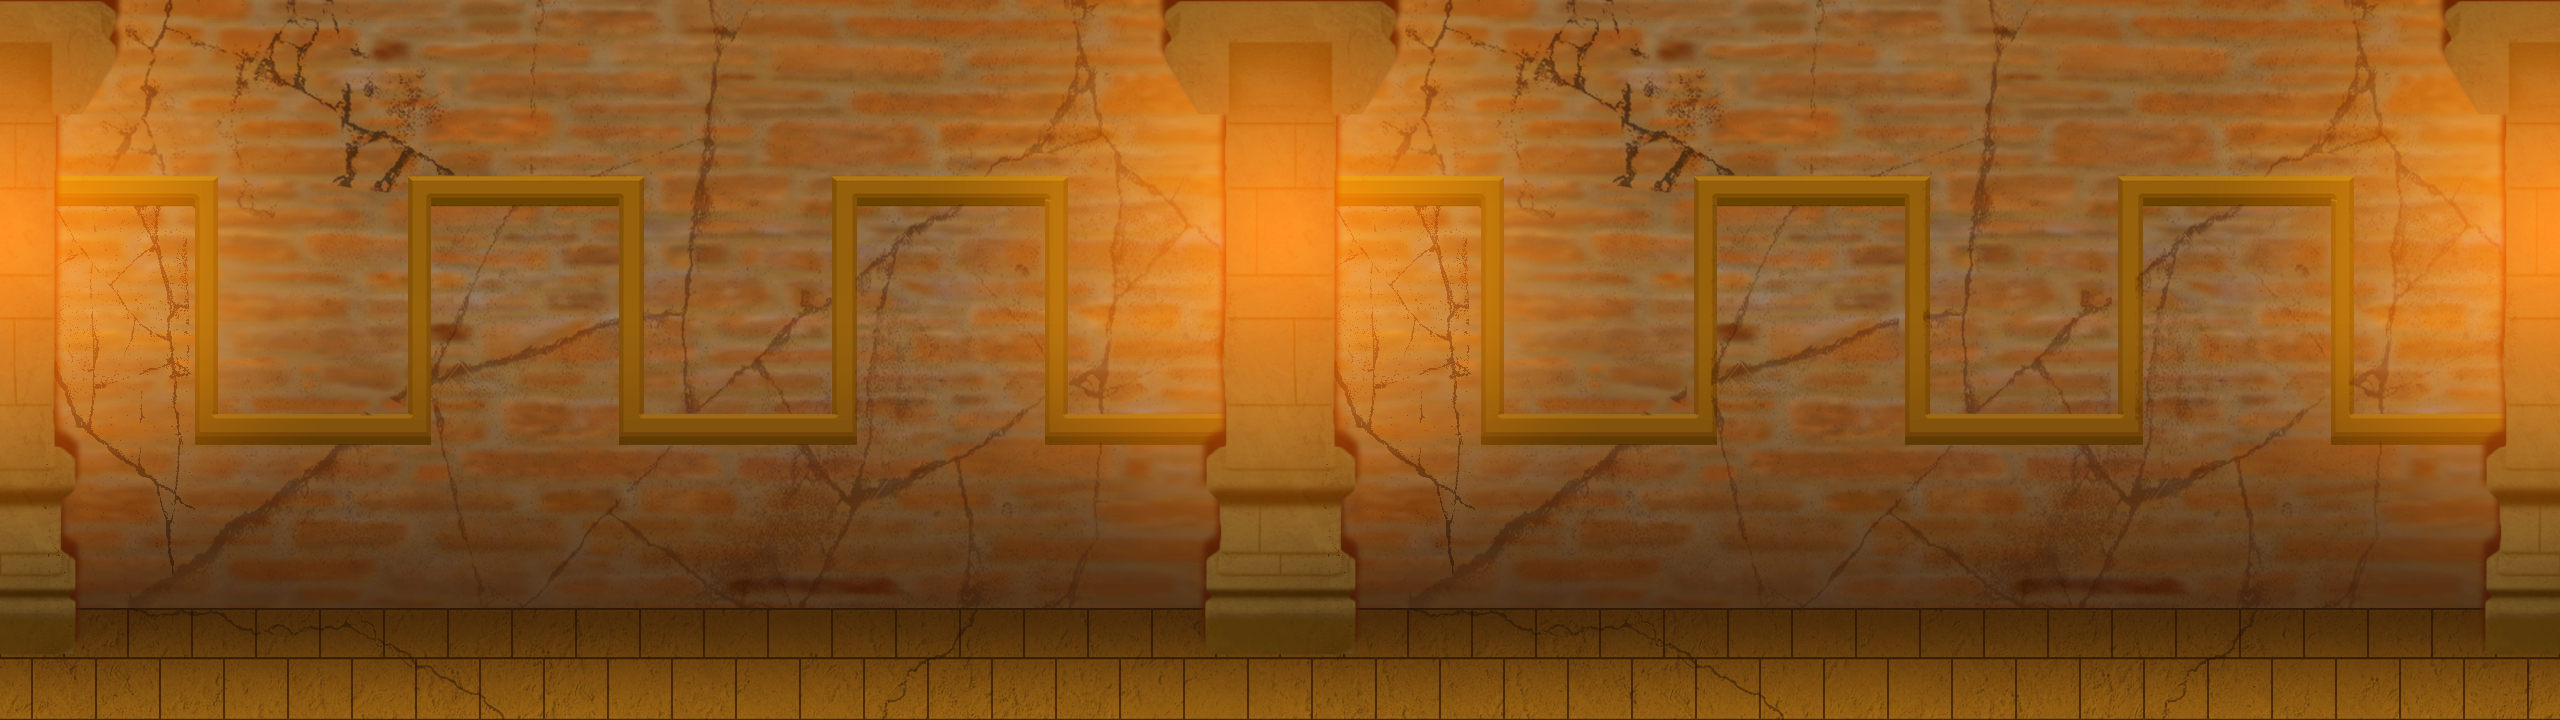
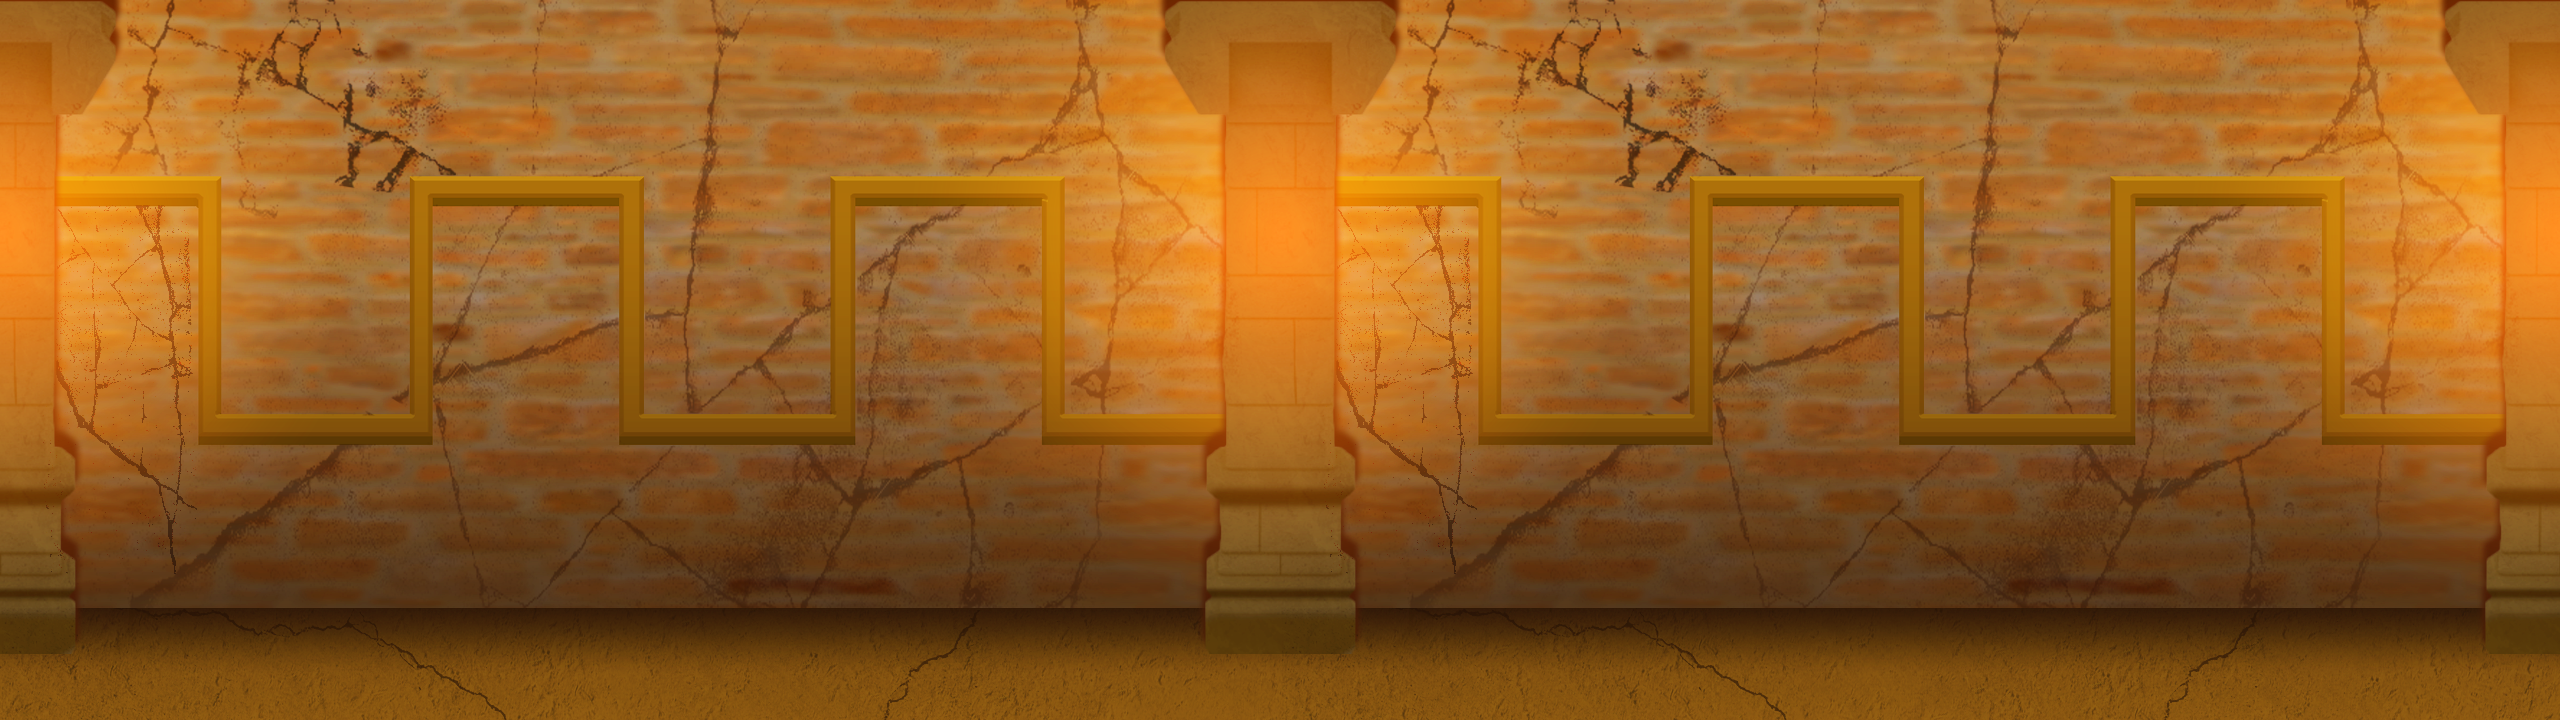
[メインシーン]穴に落ちた時のプレイヤーの挙動を変更、対応キーを追加[素材]背景、落とし穴の画像更新

diff --git a/DirectX12/DirectX12 Game Solution/DirectX12 MainProject/ClearScene.cpp b/DirectX12/DirectX12 Game Solution/DirectX12 MainProject/ClearScene.cpp
@@ -136,11 +136,6 @@ void ClearScene::Render()
             pointerSprite.Get(),
             pointerPosition);
     }
-    else
-    {
-
-    }
-
 
     DX9::SpriteBatch->End();
     DXTK->Direct3D9->EndScene();
@@ -166,42 +161,26 @@ void ClearScene::Render()
 }
 
 NextScene ClearScene::ClearSceneUpdate(const float deltaTime) {
-    if (clearSceneChangeState < RETURN_SCENE) {
-        clearSceneChangeState = RETURN_SCENE;
-    }
-    if (clearSceneChangeState > TITLE_SCENE) {
-        clearSceneChangeState = TITLE_SCENE;
-    }
-
-    //if (clearSceneChangeState == NEXT_STAGE) {
-    //    pointerPosition.y = POINTER_NEXT_POSITION_Y;
-    //    if (seCount >= SCENE_CHANGE_COUNT) {
-    //        return NextScene::MainScene2;
-    //    }
-    //    if (DXTK->KeyEvent->pressed.Enter ||
-    //        DXTK->GamePadEvent[0].a == GamePad::ButtonStateTracker::PRESSED) {
-    //        seDecision->Play();
-    //        sePlayFlagNext = true;
-    //    }
-    //}
-     if (clearSceneChangeState == RETURN_SCENE) {
+    if (clearSceneChangeState == RETURN_SCENE) {
         pointerPosition.y = POINTER_RETURN_POSITION_Y;
         if (seCount >= SCENE_CHANGE_COUNT) {
             return NextScene::MainScene;
         }
         if (DXTK->KeyEvent->pressed.Enter ||
-            DXTK->GamePadEvent[0].a == GamePad::ButtonStateTracker::PRESSED) {
+            DXTK->GamePadEvent[0].a     == GamePad::ButtonStateTracker::PRESSED ||
+            DXTK->GamePadEvent[0].start == GamePad::ButtonStateTracker::PRESSED) {
             seDecision->Play();
             sePlayFlagReturn = true;
         }
     }
-     if (clearSceneChangeState == TITLE_SCENE) {
+    if (clearSceneChangeState == TITLE_SCENE) {
         pointerPosition.y = POINTER_TITLE_POSITION_Y;
         if (seCount >= SCENE_CHANGE_COUNT) {
             return NextScene::TitleScene;
         }
         if (DXTK->KeyEvent->pressed.Enter ||
-            DXTK->GamePadEvent[0].a == GamePad::ButtonStateTracker::PRESSED) {
+            DXTK->GamePadEvent[0].a     == GamePad::ButtonStateTracker::PRESSED ||
+            DXTK->GamePadEvent[0].start == GamePad::ButtonStateTracker::PRESSED) {
             seDecision->Play();
             sePlayFlagTitle = true;
         }
@@ -219,16 +198,26 @@ NextScene ClearScene::ClearSceneUpdate(const float deltaTime) {
 void ClearScene::ClearPointerUpdate(const float deltaTime) {
     if (sePlayFlagNext == false && sePlayFlagReturn == false && sePlayFlagTitle == false) {
         if (DXTK->KeyEvent->pressed.Down ||
-            DXTK->GamePadEvent[0].leftStickDown == GamePad::ButtonStateTracker::PRESSED) {
+            DXTK->KeyEvent->pressed.S    ||
+            DXTK->GamePadEvent[0].leftStickDown == GamePad::ButtonStateTracker::PRESSED
+            ) {
             clearSceneChangeState++;
             sePointer->Play();
         }
 
         if (DXTK->KeyEvent->pressed.Up ||
+            DXTK->KeyEvent->pressed.W  ||
             DXTK->GamePadEvent[0].leftStickUp == GamePad::ButtonStateTracker::PRESSED) {
             clearSceneChangeState--;
             sePointer->Play();
         }
+    }
+
+    if (clearSceneChangeState < RETURN_SCENE) {
+        clearSceneChangeState = RETURN_SCENE;
+    }
+    if (clearSceneChangeState > TITLE_SCENE) {
+        clearSceneChangeState = TITLE_SCENE;
     }
 
     pointerFlash += POINTER_FLASH_SPEED * deltaTime;
